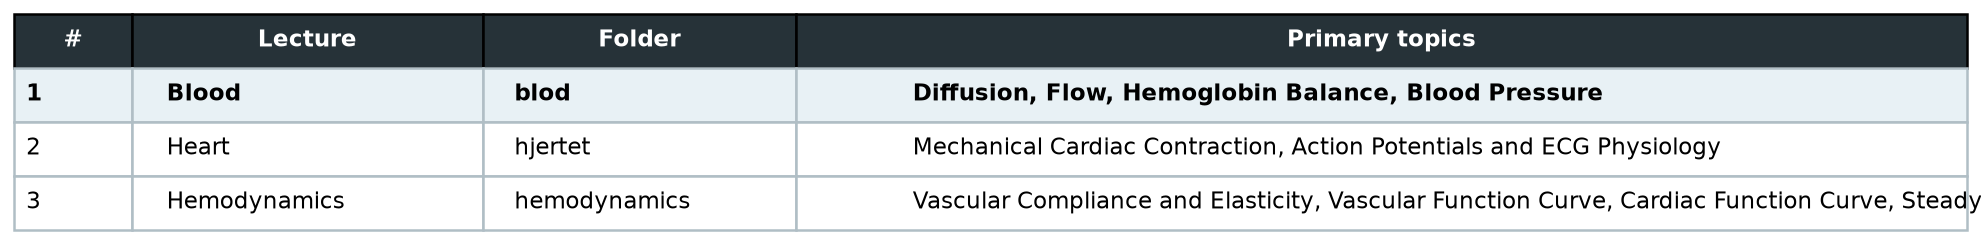
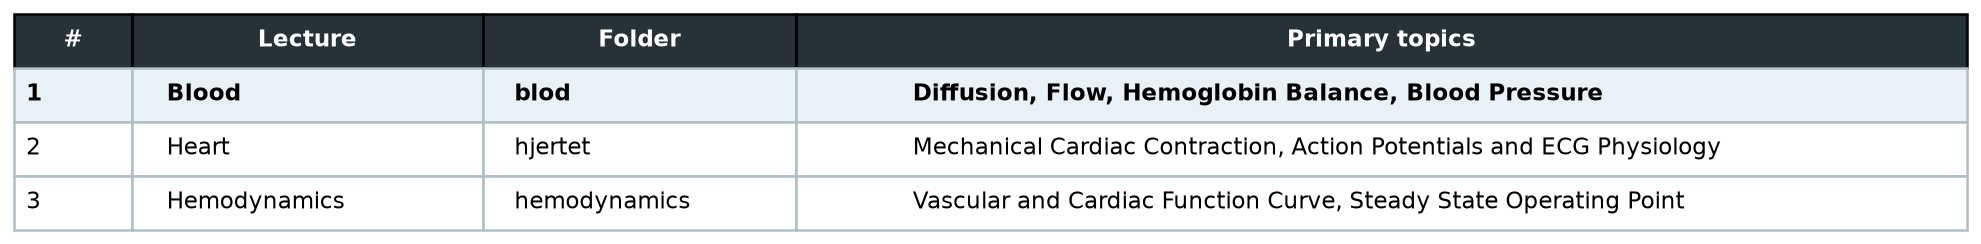
.

Changed region(s): [[0.4927, 0.7746, 1.0, 0.8607]]

diff --git a/overview_files/shared_overview_table1.html b/overview_files/shared_overview_table1.html
@@ -29,7 +29,7 @@
       <td id="T_shared_overview_row2_col0" class="data row2 col0" >3</td>
       <td id="T_shared_overview_row2_col1" class="data row2 col1" >Hemodynamics</td>
       <td id="T_shared_overview_row2_col2" class="data row2 col2" >hemodynamics</td>
-      <td id="T_shared_overview_row2_col3" class="data row2 col3" >Vascular Compliance and Elasticity, Vascular Function Curve, Cardiac Function Curve, Steady State Operating Point</td>
+      <td id="T_shared_overview_row2_col3" class="data row2 col3" >Vascular and Cardiac Function Curve, Steady State Operating Point</td>
     </tr>
   </tbody>
 </table>

diff --git a/overview_files/shared_overview_table2.html b/overview_files/shared_overview_table2.html
@@ -29,7 +29,7 @@
       <td id="T_shared_overview_row2_col0" class="data row2 col0" >3</td>
       <td id="T_shared_overview_row2_col1" class="data row2 col1" >Hemodynamics</td>
       <td id="T_shared_overview_row2_col2" class="data row2 col2" >hemodynamics</td>
-      <td id="T_shared_overview_row2_col3" class="data row2 col3" >Vascular Compliance and Elasticity, Vascular Function Curve, Cardiac Function Curve, Steady State Operating Point</td>
+      <td id="T_shared_overview_row2_col3" class="data row2 col3" >Vascular and Cardiac Function Curve, Steady State Operating Point</td>
     </tr>
   </tbody>
 </table>

diff --git a/overview_files/shared_overview_table3.html b/overview_files/shared_overview_table3.html
@@ -29,7 +29,7 @@
       <td id="T_shared_overview_row2_col0" class="data row2 col0" >3</td>
       <td id="T_shared_overview_row2_col1" class="data row2 col1" >Hemodynamics</td>
       <td id="T_shared_overview_row2_col2" class="data row2 col2" >hemodynamics</td>
-      <td id="T_shared_overview_row2_col3" class="data row2 col3" >Vascular Compliance and Elasticity, Vascular Function Curve, Cardiac Function Curve, Steady State Operating Point</td>
+      <td id="T_shared_overview_row2_col3" class="data row2 col3" >Vascular and Cardiac Function Curve, Steady State Operating Point</td>
     </tr>
   </tbody>
 </table>

diff --git a/README.md b/README.md
@@ -41,16 +41,6 @@ After following the guide, always use the python environment `python314_st3_qhf`
 2. If change occur in the git, write this in terminal `git pull`
 3. Install the following extensions for vs code: `python`, `jupyter`, (see recommendations)
 
-# KOMPLET FORELÆSNINGSPLAN – ST3 Kvantitativ Fysiologi - Det Cardiovascul;re system
-Overblik over Cardiovasculær Modellings Forelæsningerne.
-
----
-[overview_files/shared_overview_table1.html](overview_files/shared_overview_table1.html)
-
-![Forelæsningsoversigt](overview_files/shared_overview_table1.png)
-
----
-
 # Literatur Oversigt
 
 ## Bøger
